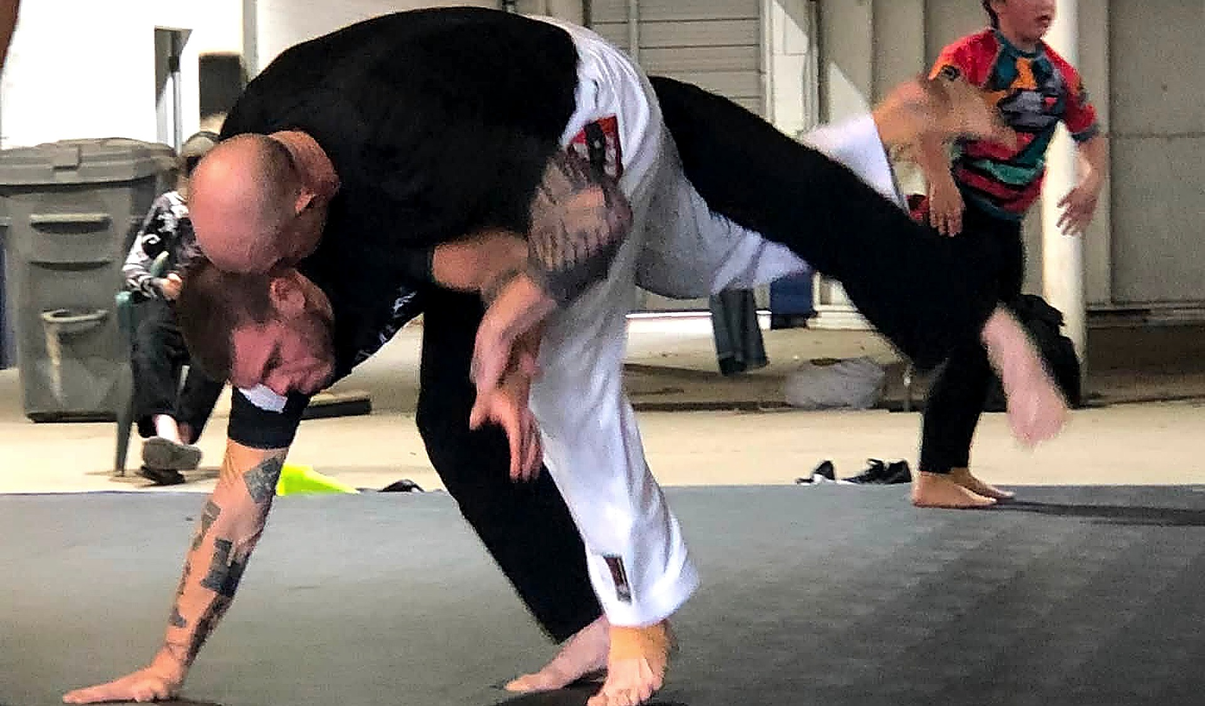
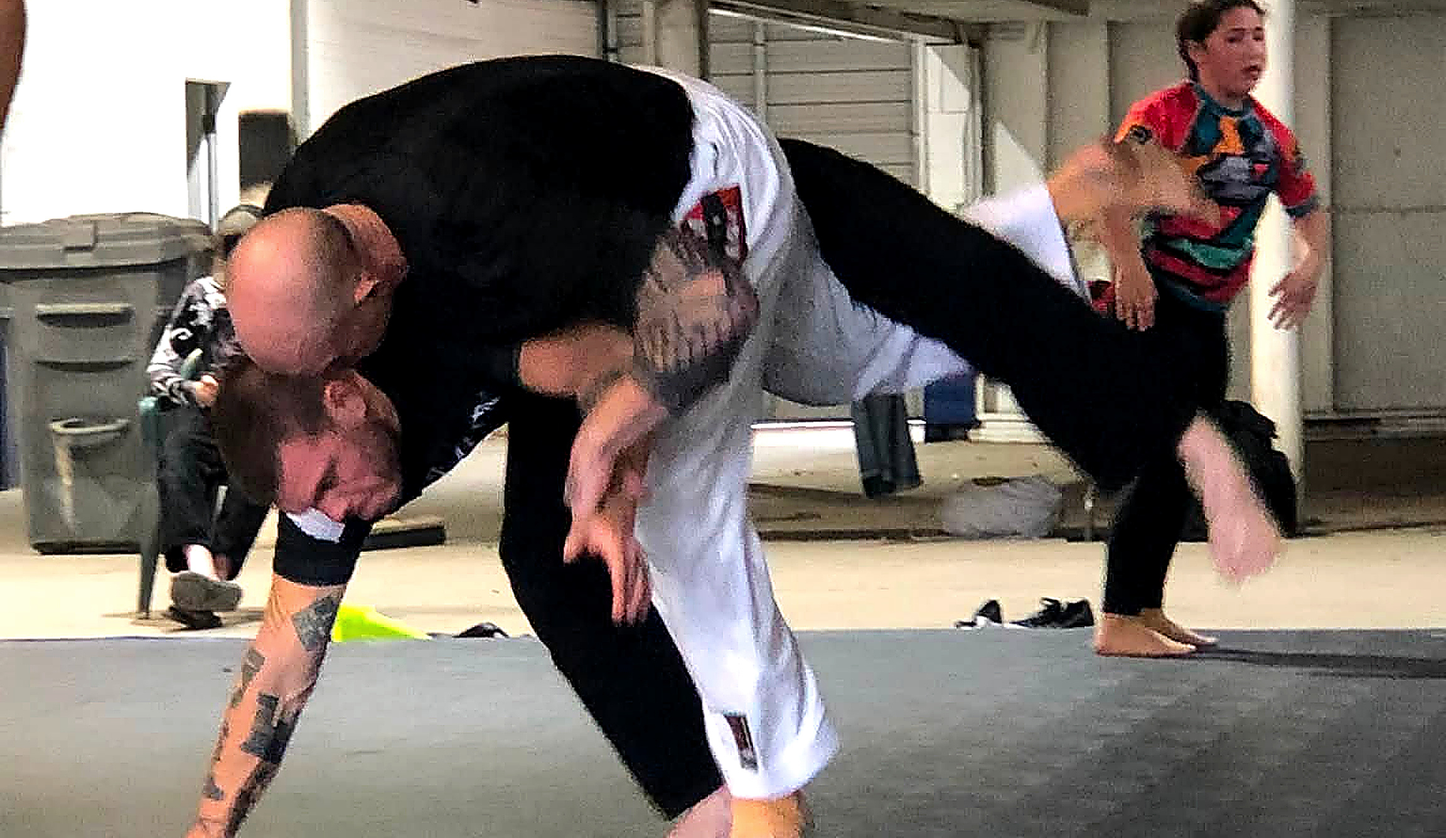
Add files via upload

diff --git a/styles.css b/styles.css
@@ -1,4 +1,4 @@
 :root{--red:#c91521;--red2:#7d0810;--black:#08090b;--panel:#111317;--panel2:#171a1f;--gray:#9ea2a9;--light:#f2f2ef;--line:#2c3037;--max:1180px;--shadow:0 28px 80px rgba(0,0,0,.42)}
-*{box-sizing:border-box}html{scroll-behavior:smooth}body{margin:0;background:var(--black);color:var(--light);font-family:Inter,ui-sans-serif,system-ui,-apple-system,"Segoe UI",sans-serif;line-height:1.55}body:before{content:"";position:fixed;inset:0;pointer-events:none;z-index:-2;background:radial-gradient(circle at 80% 5%,rgba(201,21,33,.16),transparent 30rem),radial-gradient(circle at 10% 65%,rgba(255,255,255,.035),transparent 28rem)}a{color:inherit;text-decoration:none}img{max-width:100%;display:block}.shell{width:min(var(--max),calc(100% - 34px));margin:auto}.top{position:sticky;top:0;z-index:30;background:rgba(8,9,11,.88);backdrop-filter:blur(14px);border-bottom:1px solid rgba(255,255,255,.09)}.nav{min-height:76px;display:flex;align-items:center;gap:22px}.brand{display:flex;align-items:center;gap:12px;margin-right:auto}.brand img{width:56px;height:56px;object-fit:cover;border-radius:50%;border:2px solid rgba(255,255,255,.85)}.brand strong{display:block;letter-spacing:.08em;text-transform:uppercase;font-size:16px}.brand span{display:block;color:#a9adb4;font-size:10px;letter-spacing:.16em;text-transform:uppercase;font-weight:800}.links{display:flex;align-items:center;gap:20px;font-size:13px;font-weight:850;text-transform:uppercase;letter-spacing:.06em}.links a:hover{color:#fff}.btn{display:inline-flex;align-items:center;justify-content:center;gap:9px;min-height:48px;padding:13px 19px;border-radius:8px;border:1px solid transparent;font-weight:900;text-transform:uppercase;letter-spacing:.05em;font-size:12px;cursor:pointer}.btn-red{background:linear-gradient(135deg,#e31d2a,#a60812);box-shadow:0 12px 34px rgba(201,21,33,.27)}.btn-dark{border-color:#3a3d42;background:#13151a}.hero{position:relative;min-height:740px;display:flex;align-items:center;overflow:hidden;border-bottom:1px solid #222}.hero-bg{position:absolute;inset:0;background:linear-gradient(90deg,rgba(5,5,6,.97) 0%,rgba(5,5,6,.84) 34%,rgba(5,5,6,.28) 64%,rgba(5,5,6,.68) 100%),url('assets/hero-throw-wide.jpg') 66% 36%/cover no-repeat;filter:saturate(.96) contrast(1.12)}.hero-bg:after{content:"";position:absolute;inset:0;background:linear-gradient(0deg,#08090b 0%,transparent 30%),repeating-linear-gradient(120deg,transparent 0 80px,rgba(201,21,33,.03) 81px 83px)}.hero-decal{position:absolute;right:0;top:54%;width:min(41vw,560px);aspect-ratio:900/806;background:url('assets/red-road-decal.png') center/contain no-repeat;opacity:.30;transform:translateY(-45%) rotate(-7deg);z-index:1;pointer-events:none;filter:drop-shadow(0 10px 34px rgba(0,0,0,.5)) drop-shadow(0 0 18px rgba(201,21,33,.22))}.hero-decal:after{content:"";position:absolute;inset:8% 10% 0 10%;background:radial-gradient(circle at 50% 72%,rgba(201,21,33,.18),transparent 45%)}.hero-inner{position:relative;z-index:2;padding:110px 0 100px;max-width:770px}.kicker{display:flex;align-items:center;gap:10px;margin-bottom:14px;color:#d7d7d7;font-size:12px;font-weight:950;text-transform:uppercase;letter-spacing:.18em}.kicker:before{content:"";width:38px;height:3px;background:var(--red)}h1,h2,h3,p{margin-top:0}.hero h1{font-family:Impact,Haettenschweiler,'Arial Narrow Bold',sans-serif;font-size:clamp(4.2rem,10vw,8.2rem);line-height:.82;letter-spacing:.01em;text-transform:uppercase;margin-bottom:25px;text-shadow:0 14px 45px #000}.hero h1 span{display:block;color:var(--red)}.hero p{max-width:620px;color:#d0d1d4;font-size:18px}.hero-actions{display:flex;flex-wrap:wrap;gap:10px;margin-top:26px}.quickbar{position:relative;z-index:3;margin-top:-44px}.quickgrid{display:grid;grid-template-columns:repeat(4,1fr);background:#0f1115;border:1px solid #2a2d33;box-shadow:var(--shadow)}.quick{padding:24px;border-right:1px solid #2a2d33}.quick:last-child{border-right:0}.quick small{display:block;color:#888d95;font-size:10px;font-weight:900;text-transform:uppercase;letter-spacing:.14em}.quick strong{display:block;margin-top:5px;font-size:17px}.section{padding:88px 0}.section-head{display:grid;grid-template-columns:.7fr 1.3fr;gap:32px;align-items:end;margin-bottom:34px}.section-head h2{font-family:Impact,Haettenschweiler,'Arial Narrow Bold',sans-serif;font-size:clamp(3rem,6vw,5.8rem);line-height:.92;text-transform:uppercase;margin:0}.section-head p{margin:0;color:#a7abb2;font-size:17px}.red{color:var(--red)}.schedule-wrap{display:grid;grid-template-columns:.85fr 1.15fr;gap:24px}.poster{border:1px solid #35383d;background:#121418;padding:10px;box-shadow:var(--shadow)}.poster img{width:100%}.schedule{display:grid;gap:14px}.class-card{display:grid;grid-template-columns:150px 1fr auto;gap:20px;align-items:center;padding:24px;border:1px solid #2b2e34;background:linear-gradient(135deg,#111317,#16191e)}.class-card .time{font-size:24px;font-weight:950;color:var(--red)}.class-card h3{margin:0;font-size:22px}.class-card p{margin:5px 0 0;color:#91969e}.pill{padding:7px 10px;border:1px solid #44474d;border-radius:999px;color:#c4c6ca;font-size:10px;font-weight:900;text-transform:uppercase;letter-spacing:.1em}.price-grid{display:grid;grid-template-columns:repeat(4,1fr);gap:12px}.price{padding:26px 20px;border-top:4px solid var(--red);background:#121418;border-inline:1px solid #292c31;border-bottom:1px solid #292c31}.price h3{font-size:18px;margin-bottom:20px}.price strong{display:block;font-size:38px}.price span{color:#999ea6;font-size:12px}.story-band{position:relative;overflow:hidden;background:#0d0f12;border-block:1px solid #25282d}.story-grid{display:grid;grid-template-columns:1fr 1fr;min-height:620px}.story-photo{background:linear-gradient(90deg,transparent 70%,#0d0f12),url('assets/coaches.png') center 22%/cover no-repeat}.story-copy{padding:80px 52px;display:flex;flex-direction:column;justify-content:center}.story-copy blockquote{font-family:Georgia,serif;font-size:28px;line-height:1.35;margin:20px 0;color:#e7e2db;border-left:4px solid var(--red);padding-left:22px}.gallery{display:grid;grid-template-columns:1.1fr .9fr .9fr;grid-template-rows:300px 300px;gap:12px}.gallery figure{margin:0;overflow:hidden;position:relative;background:#16181c;border:1px solid #282b30}.gallery figure:first-child{grid-row:1/3}.gallery img{width:100%;height:100%;object-fit:cover;filter:saturate(.8) contrast(1.08);transition:.3s}.gallery figure:hover img{transform:scale(1.025);filter:saturate(1)}.gallery figcaption{position:absolute;left:0;right:0;bottom:0;padding:28px 18px 15px;background:linear-gradient(transparent,rgba(0,0,0,.88));font-size:12px;font-weight:900;text-transform:uppercase;letter-spacing:.08em}.location-card{display:grid;grid-template-columns:1fr .8fr;border:1px solid #30333a;background:#111317}.location-copy{padding:38px}.location-map{min-height:340px;background:linear-gradient(rgba(201,21,33,.09),rgba(201,21,33,.09)),repeating-linear-gradient(45deg,#1b1e22 0 20px,#181a1e 20px 40px);display:grid;place-items:center;text-align:center;padding:30px}.map-pin{font-size:56px}.footer{padding:36px 0;border-top:1px solid #292c31;color:#8f949c}.footer-grid{display:flex;gap:20px;align-items:center;justify-content:space-between}.footer img{width:68px;border-radius:50%}.mobile-menu{display:none}.portal-hero{padding:110px 0 70px;background:linear-gradient(120deg,#090a0c,#17191e)}.portal-shell{width:min(800px,calc(100% - 34px));margin:auto}.login-card,.dash-card{padding:30px;border:1px solid #30333a;background:#121418;box-shadow:var(--shadow)}.login-card input{width:100%;margin:8px 0 14px;padding:15px;border:1px solid #363940;background:#090a0c;color:#fff;border-radius:6px}.dash-grid{display:grid;grid-template-columns:repeat(4,1fr);gap:12px}.dash-stat{padding:20px;border:1px solid #30333a;background:#111317}.dash-stat strong{display:block;font-size:30px;color:var(--red)}
-@media(max-width:900px){.links{display:none}.mobile-menu{display:inline-flex}.hero{min-height:660px}.hero-bg{background-position:70% 34%}.hero-decal{width:min(42vw,330px);right:-1%;top:60%;opacity:.26;transform:translateY(-50%) rotate(-6deg)}.quickgrid,.price-grid{grid-template-columns:1fr 1fr}.quick:nth-child(2){border-right:0}.quick:nth-child(-n+2){border-bottom:1px solid #2a2d33}.section-head,.schedule-wrap,.story-grid,.location-card{grid-template-columns:1fr}.story-photo{min-height:540px;background-position:center 15%}.gallery{grid-template-columns:1fr 1fr;grid-template-rows:330px 250px 250px}.gallery figure:first-child{grid-column:1/3;grid-row:auto}.dash-grid{grid-template-columns:1fr 1fr}}
+*{box-sizing:border-box}html{scroll-behavior:smooth}body{margin:0;background:var(--black);color:var(--light);font-family:Inter,ui-sans-serif,system-ui,-apple-system,"Segoe UI",sans-serif;line-height:1.55}body:before{content:"";position:fixed;inset:0;pointer-events:none;z-index:-2;background:radial-gradient(circle at 80% 5%,rgba(201,21,33,.16),transparent 30rem),radial-gradient(circle at 10% 65%,rgba(255,255,255,.035),transparent 28rem)}a{color:inherit;text-decoration:none}img{max-width:100%;display:block}.shell{width:min(var(--max),calc(100% - 34px));margin:auto}.top{position:sticky;top:0;z-index:30;background:rgba(8,9,11,.88);backdrop-filter:blur(14px);border-bottom:1px solid rgba(255,255,255,.09)}.nav{min-height:76px;display:flex;align-items:center;gap:22px}.brand{display:flex;align-items:center;gap:12px;margin-right:auto}.brand img{width:56px;height:56px;object-fit:cover;border-radius:50%;border:2px solid rgba(255,255,255,.85)}.brand strong{display:block;letter-spacing:.08em;text-transform:uppercase;font-size:16px}.brand span{display:block;color:#a9adb4;font-size:10px;letter-spacing:.16em;text-transform:uppercase;font-weight:800}.links{display:flex;align-items:center;gap:20px;font-size:13px;font-weight:850;text-transform:uppercase;letter-spacing:.06em}.links a:hover{color:#fff}.btn{display:inline-flex;align-items:center;justify-content:center;gap:9px;min-height:48px;padding:13px 19px;border-radius:8px;border:1px solid transparent;font-weight:900;text-transform:uppercase;letter-spacing:.05em;font-size:12px;cursor:pointer}.btn-red{background:linear-gradient(135deg,#e31d2a,#a60812);box-shadow:0 12px 34px rgba(201,21,33,.27)}.btn-dark{border-color:#3a3d42;background:#13151a}.hero{position:relative;min-height:740px;display:flex;align-items:center;overflow:hidden;border-bottom:1px solid #222}.hero-bg{position:absolute;inset:0;background:linear-gradient(90deg,rgba(5,5,6,.97) 0%,rgba(5,5,6,.84) 34%,rgba(5,5,6,.28) 64%,rgba(5,5,6,.68) 100%),url('assets/hero-new-grapple.jpg') 72% 46%/cover no-repeat;filter:saturate(.96) contrast(1.12)}.hero-bg:after{content:"";position:absolute;inset:0;background:linear-gradient(0deg,#08090b 0%,transparent 30%),repeating-linear-gradient(120deg,transparent 0 80px,rgba(201,21,33,.03) 81px 83px)}.hero-decal{position:absolute;right:0;top:54%;width:min(41vw,560px);aspect-ratio:900/806;background:url('assets/red-road-decal.png') center/contain no-repeat;opacity:.30;transform:translateY(-45%) rotate(-7deg);z-index:1;pointer-events:none;filter:drop-shadow(0 10px 34px rgba(0,0,0,.5)) drop-shadow(0 0 18px rgba(201,21,33,.22))}.hero-decal:after{content:"";position:absolute;inset:8% 10% 0 10%;background:radial-gradient(circle at 50% 72%,rgba(201,21,33,.18),transparent 45%)}.hero-inner{position:relative;z-index:2;padding:110px 0 100px;max-width:770px}.kicker{display:flex;align-items:center;gap:10px;margin-bottom:14px;color:#d7d7d7;font-size:12px;font-weight:950;text-transform:uppercase;letter-spacing:.18em}.kicker:before{content:"";width:38px;height:3px;background:var(--red)}h1,h2,h3,p{margin-top:0}.hero h1{font-family:Impact,Haettenschweiler,'Arial Narrow Bold',sans-serif;font-size:clamp(4.2rem,10vw,8.2rem);line-height:.82;letter-spacing:.01em;text-transform:uppercase;margin-bottom:25px;text-shadow:0 14px 45px #000}.hero h1 span{display:block;color:var(--red)}.hero p{max-width:620px;color:#d0d1d4;font-size:18px}.hero-actions{display:flex;flex-wrap:wrap;gap:10px;margin-top:26px}.quickbar{position:relative;z-index:3;margin-top:-44px}.quickgrid{display:grid;grid-template-columns:repeat(4,1fr);background:#0f1115;border:1px solid #2a2d33;box-shadow:var(--shadow)}.quick{padding:24px;border-right:1px solid #2a2d33}.quick:last-child{border-right:0}.quick small{display:block;color:#888d95;font-size:10px;font-weight:900;text-transform:uppercase;letter-spacing:.14em}.quick strong{display:block;margin-top:5px;font-size:17px}.section{padding:88px 0}.section-head{display:grid;grid-template-columns:.7fr 1.3fr;gap:32px;align-items:end;margin-bottom:34px}.section-head h2{font-family:Impact,Haettenschweiler,'Arial Narrow Bold',sans-serif;font-size:clamp(3rem,6vw,5.8rem);line-height:.92;text-transform:uppercase;margin:0}.section-head p{margin:0;color:#a7abb2;font-size:17px}.red{color:var(--red)}.schedule-wrap{display:grid;grid-template-columns:.85fr 1.15fr;gap:24px}.poster{border:1px solid #35383d;background:#121418;padding:10px;box-shadow:var(--shadow)}.poster img{width:100%}.schedule{display:grid;gap:14px}.class-card{display:grid;grid-template-columns:150px 1fr auto;gap:20px;align-items:center;padding:24px;border:1px solid #2b2e34;background:linear-gradient(135deg,#111317,#16191e)}.class-card .time{font-size:24px;font-weight:950;color:var(--red)}.class-card h3{margin:0;font-size:22px}.class-card p{margin:5px 0 0;color:#91969e}.pill{padding:7px 10px;border:1px solid #44474d;border-radius:999px;color:#c4c6ca;font-size:10px;font-weight:900;text-transform:uppercase;letter-spacing:.1em}.price-grid{display:grid;grid-template-columns:repeat(4,1fr);gap:12px}.price{padding:26px 20px;border-top:4px solid var(--red);background:#121418;border-inline:1px solid #292c31;border-bottom:1px solid #292c31}.price h3{font-size:18px;margin-bottom:20px}.price strong{display:block;font-size:38px}.price span{color:#999ea6;font-size:12px}.story-band{position:relative;overflow:hidden;background:#0d0f12;border-block:1px solid #25282d}.story-grid{display:grid;grid-template-columns:1fr 1fr;min-height:620px}.story-photo{background:linear-gradient(90deg,transparent 70%,#0d0f12),url('assets/coaches.png') center 22%/cover no-repeat}.story-copy{padding:80px 52px;display:flex;flex-direction:column;justify-content:center}.story-copy blockquote{font-family:Georgia,serif;font-size:28px;line-height:1.35;margin:20px 0;color:#e7e2db;border-left:4px solid var(--red);padding-left:22px}.gallery{display:grid;grid-template-columns:1.1fr .9fr .9fr;grid-template-rows:300px 300px;gap:12px}.gallery figure{margin:0;overflow:hidden;position:relative;background:#16181c;border:1px solid #282b30}.gallery figure:first-child{grid-row:1/3}.gallery img{width:100%;height:100%;object-fit:cover;filter:saturate(.8) contrast(1.08);transition:.3s}.gallery figure:hover img{transform:scale(1.025);filter:saturate(1)}.gallery figcaption{position:absolute;left:0;right:0;bottom:0;padding:28px 18px 15px;background:linear-gradient(transparent,rgba(0,0,0,.88));font-size:12px;font-weight:900;text-transform:uppercase;letter-spacing:.08em}.location-card{display:grid;grid-template-columns:1fr .8fr;border:1px solid #30333a;background:#111317}.location-copy{padding:38px}.location-map{min-height:340px;background:linear-gradient(rgba(201,21,33,.09),rgba(201,21,33,.09)),repeating-linear-gradient(45deg,#1b1e22 0 20px,#181a1e 20px 40px);display:grid;place-items:center;text-align:center;padding:30px}.map-pin{font-size:56px}.footer{padding:36px 0;border-top:1px solid #292c31;color:#8f949c}.footer-grid{display:flex;gap:20px;align-items:center;justify-content:space-between}.footer img{width:68px;border-radius:50%}.mobile-menu{display:none}.portal-hero{padding:110px 0 70px;background:linear-gradient(120deg,#090a0c,#17191e)}.portal-shell{width:min(800px,calc(100% - 34px));margin:auto}.login-card,.dash-card{padding:30px;border:1px solid #30333a;background:#121418;box-shadow:var(--shadow)}.login-card input{width:100%;margin:8px 0 14px;padding:15px;border:1px solid #363940;background:#090a0c;color:#fff;border-radius:6px}.dash-grid{display:grid;grid-template-columns:repeat(4,1fr);gap:12px}.dash-stat{padding:20px;border:1px solid #30333a;background:#111317}.dash-stat strong{display:block;font-size:30px;color:var(--red)}
+@media(max-width:900px){.links{display:none}.mobile-menu{display:inline-flex}.hero{min-height:660px}.hero-bg{background-position:76% 48%}.hero-decal{width:min(42vw,330px);right:-1%;top:60%;opacity:.26;transform:translateY(-50%) rotate(-6deg)}.quickgrid,.price-grid{grid-template-columns:1fr 1fr}.quick:nth-child(2){border-right:0}.quick:nth-child(-n+2){border-bottom:1px solid #2a2d33}.section-head,.schedule-wrap,.story-grid,.location-card{grid-template-columns:1fr}.story-photo{min-height:540px;background-position:center 15%}.gallery{grid-template-columns:1fr 1fr;grid-template-rows:330px 250px 250px}.gallery figure:first-child{grid-column:1/3;grid-row:auto}.dash-grid{grid-template-columns:1fr 1fr}}
 @media(max-width:600px){.shell{width:min(100% - 22px,var(--max))}.brand span{display:none}.nav .btn-red{display:none}.hero-inner{padding-top:90px}.hero-decal{width:64vw;right:-14%;top:auto;bottom:-4%;transform:rotate(-8deg);opacity:.15}.hero h1{font-size:clamp(4rem,21vw,6rem)}.hero p{font-size:16px}.quickbar{margin-top:-24px}.quickgrid,.price-grid{grid-template-columns:1fr}.quick{border-right:0!important;border-bottom:1px solid #2a2d33}.quick:last-child{border-bottom:0}.section{padding:64px 0}.class-card{grid-template-columns:1fr}.story-copy{padding:58px 24px}.story-copy blockquote{font-size:22px}.gallery{display:grid;grid-template-columns:1fr;grid-template-rows:repeat(4,300px)}.gallery figure:first-child{grid-column:auto}.footer-grid{align-items:flex-start;flex-direction:column}.dash-grid{grid-template-columns:1fr}}
